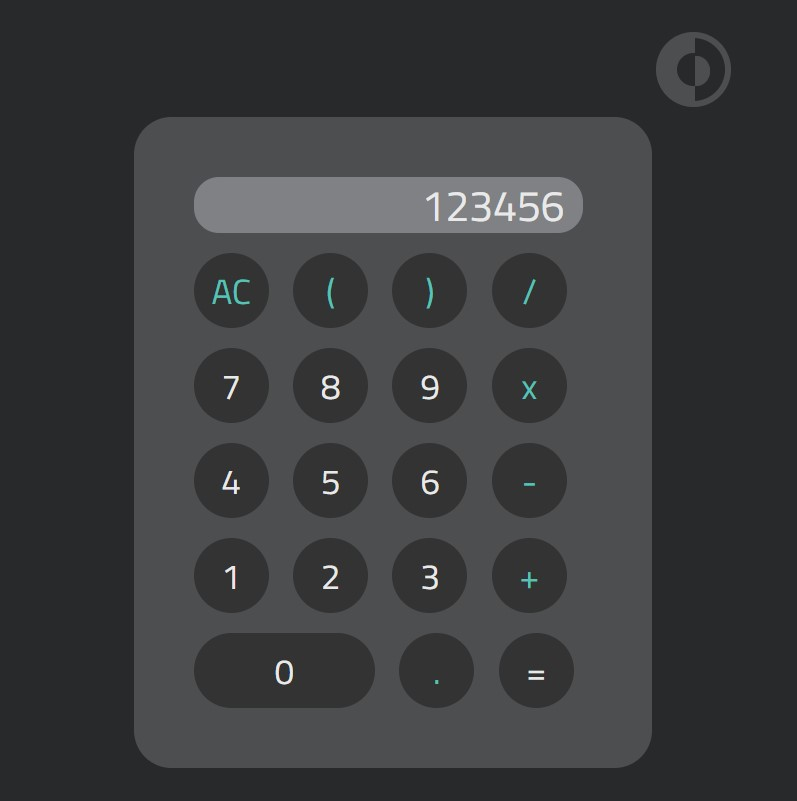
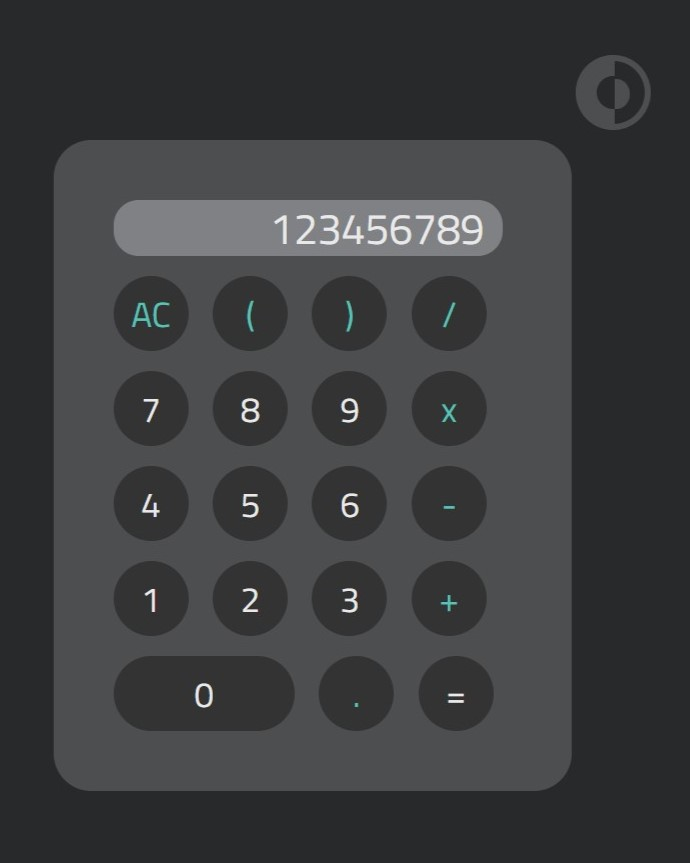
added new image of calc with 4:5 ratio

diff --git a/src/components/portfolio/Portfolio.jsx b/src/components/portfolio/Portfolio.jsx
@@ -15,7 +15,7 @@ const data = [
   {
     id: 2,
     image: IMG2,
-    title: "calculator",
+    title: "Calculator",
     github: "https://github.com/HairiBeast/Calculator",
     demo: "https://6324f2ff2139ab39ed8d36d2--super-kitsune-d54a55.netlify.app/",
   },
